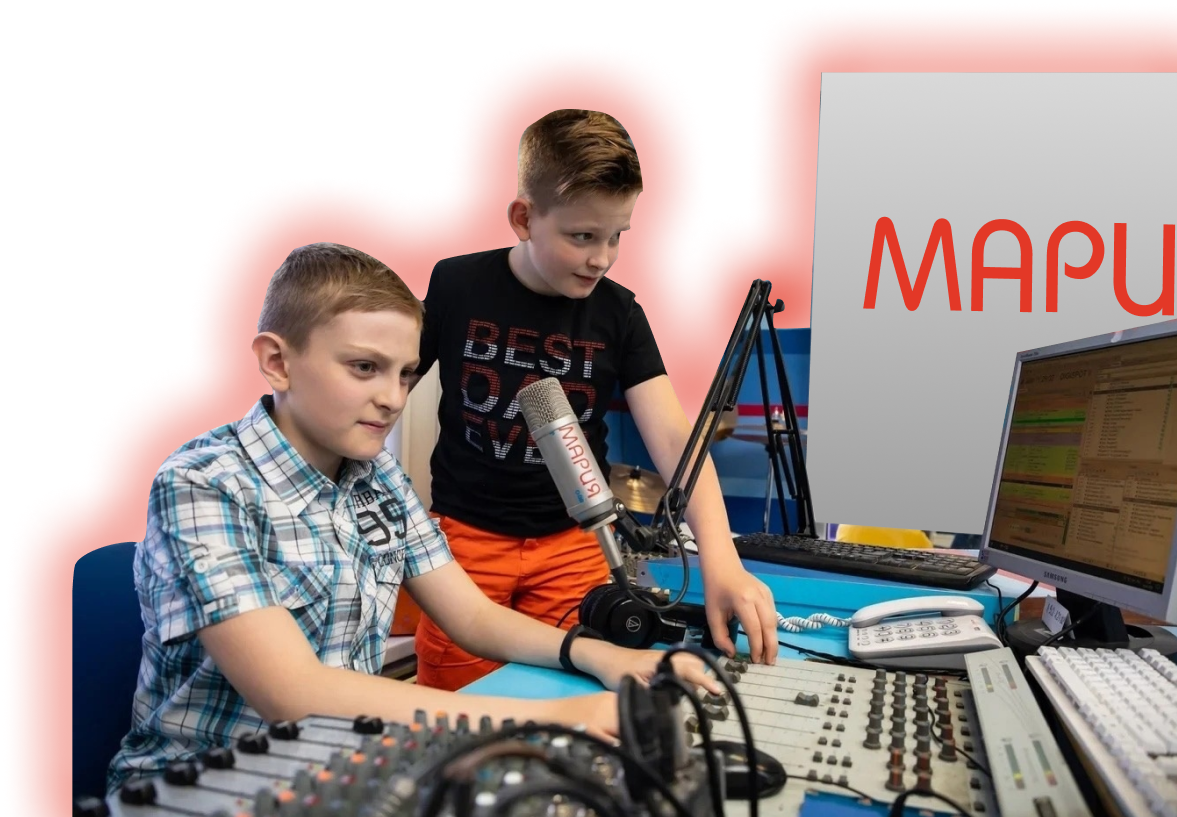
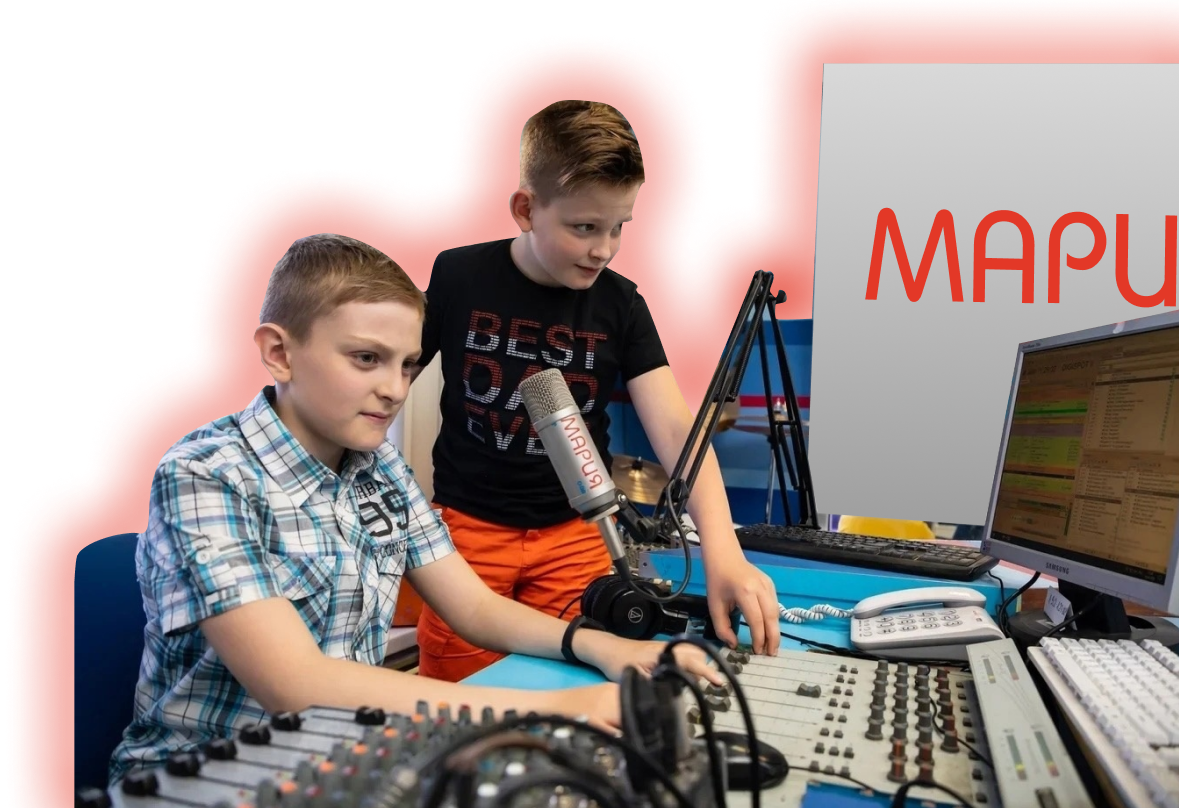
main: доработана секция "school" для компьютерной версии

diff --git a/landing/templates/landing/partials/school.html b/landing/templates/landing/partials/school.html
@@ -5,23 +5,35 @@
         <div class="school__body">
             <h2 class="title title--white title--uppercase">Школа медиа</h2>
 
-            <div class="school__text">
-                <p>
-                    Школа МЕДИА действует в Кирове с 2015 года при поддержке радиостанции "Мария FM".
-                    Имеет лицензию дополнительного образования.
-                </p>
+            <div class="school__content">
+                <div class="school__description">
+                    <div class="school__text">
+                        <p>
+                            Школа МЕДИА действует в Кирове с 2015 года при поддержке радиостанции "Мария FM".
+                            Имеет лицензию дополнительного образования.
+                        </p>
 
-                <p>
-                    Школа МЕДИА - это курсы для детей, подростков и взрослых по направлениям:
-                    курсы по речи и ораторскому мастерству, школа блогеров,
-                    медиакоммуникации/журналистика для школьников, курсы радиоведущих.
-                </p>
-            </div>
-            
-            <a class="btn school__enroll" href="https://vk.com/im?media=&sel=-86542693" target="_blank">Записаться</a>
-            
-            <div class="school__image">
-                <img src="{% vite_asset_url 'images/school/cover.png' %}">
+                        <p>
+                            Школа МЕДИА - это курсы для детей, подростков и взрослых по направлениям:
+                            курсы по речи и ораторскому мастерству, школа блогеров,
+                            медиакоммуникации/журналистика для школьников, курсы радиоведущих.
+                        </p>
+                    </div>
+
+                    <a
+                            class="btn"
+                            target="_blank"
+                            href="https://vk.com/im?media=&sel=-86542693"
+                    >
+                        Записаться
+                    </a>
+                </div>
+
+                <div
+                        class="school__image"
+                        style="background-image: url('{% vite_asset_url 'images/school/cover.png' %}');"
+                >
+                </div>
             </div>
         </div>
     </div>

diff --git a/static/scripts/main.ts b/static/scripts/main.ts
@@ -16,4 +16,23 @@ new TeamCarousel({
     btnPrevId: 'team-btn-prev',
     carouselId: 'team-carousel'
 }).init()
-// new InteractiveMap('footer-map', [58.583945, 49.659408]).init();
+new InteractiveMap('footer-map', [58.583945, 49.659408]).init();
+
+// TODO: временная история
+const school = document.getElementById('school')!;
+const schoolContent = school.querySelector('.school__description')!;
+const schoolImage = school.querySelector('.school__image')! as HTMLElement;
+
+const onChangeImage = () => {
+    const totalWidth = school.getBoundingClientRect().width;
+    const contentCoord = schoolContent.getBoundingClientRect();
+
+    const newWidth = Math.min(totalWidth - contentCoord.right, 1040);
+    const newHeight = newWidth * (751.73 / 1276.32);
+
+    schoolImage.style.width = `${newWidth}px`;
+    schoolImage.style.height = `${newHeight}px`;
+}
+
+window.addEventListener('resize', onChangeImage);
+window.addEventListener('load', onChangeImage);

diff --git a/static/styles/sections/_school.scss b/static/styles/sections/_school.scss
@@ -1,14 +1,19 @@
+@import "../utils/mixins";
+
 .school {
 	background-color: var(--black-01);
 	position: relative;
 
 	&__body {
-		padding: 56px 0;
+		padding-top: 54px;
+	}
+
+	&__content {
+		padding-right: 50vw;
 	}
 
 	&__text {
-		max-width: 650px;
-		margin: 64px 0 48px 0;
+		margin-bottom: 48px;
 
 		color: var(--white);
 		line-height: 1.2;
@@ -19,8 +24,14 @@
 		}
 	}
 
-	&__enroll {
+	&__content {
+		display: flex;
+	}
 
+	&__description {
+		padding: 54px 0;
+		align-self: center;
+		flex: 1 1 0;
 	}
 
 	&__image {
@@ -28,13 +39,7 @@
 		right: 0;
 		bottom: 0;
 
-		height: 600px;
-		aspect-ratio: 1.7 / 1; // TODO: да, да. Поменять
-
-		img {
-			width: 100%;
-			height: 100%;
-			object-fit: cover;
-		}
+		background-size: cover;
+		background-repeat: no-repeat;
 	}
 }

diff --git a/landing/templates/landing/index.html b/landing/templates/landing/index.html
@@ -6,8 +6,8 @@
 {% include './partials/about.html' %}
 {% include './partials/efficiency.html' %}
 {% include './partials/team.html' %}
-<!-- {% include './partials/school.html' %} -->
-<!-- {% include './partials/projects.html' %} -->
-<!-- {% include './partials/footer.html' %} -->
-<!-- {% include './partials/floating-button.html' %} -->
+{% include './partials/school.html' %}
+{% include './partials/projects.html' %}
+{% include './partials/footer.html' %}
+{% include './partials/floating-button.html' %}
 {% endblock %}
